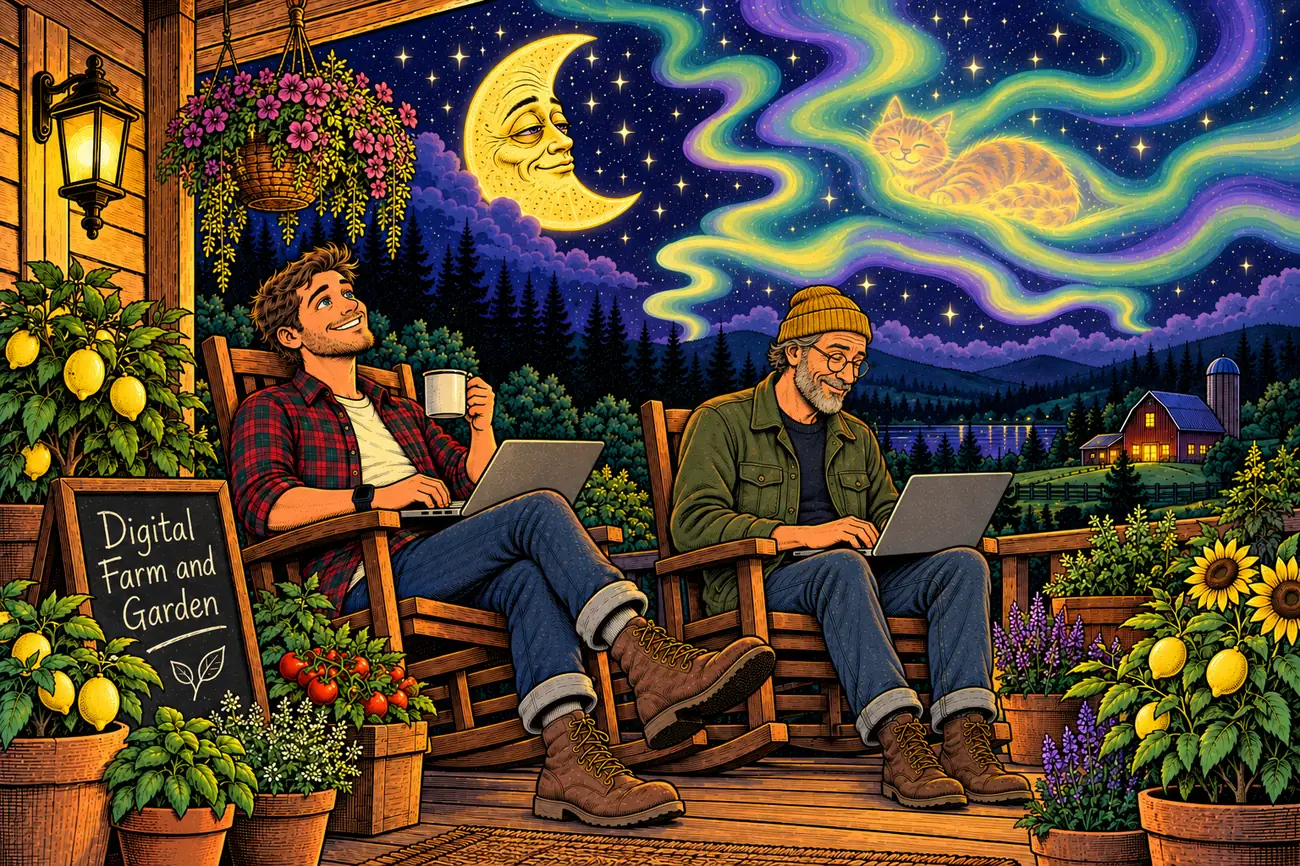
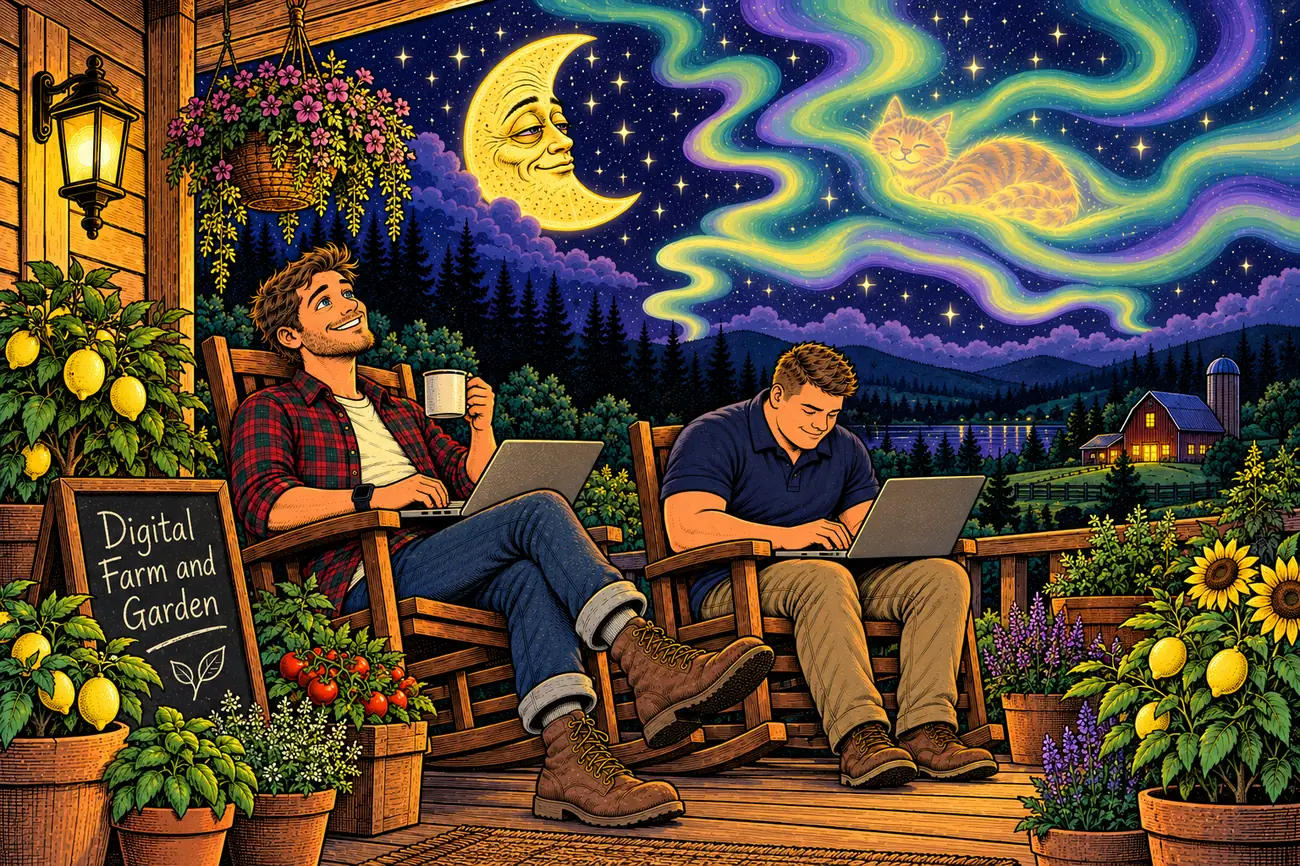
Porch art: Kyle's pick (Rylan version)
Claude-Session: https://claude.ai/code/session_01Ac747erk9CeapfRKQB2zBU

diff --git a/index.html b/index.html
@@ -104,7 +104,7 @@
 <figure class="porch">
   <picture>
     <source type="image/webp" srcset="/assets/porch-800.webp 800w, /assets/porch-1300.webp 1300w" sizes="(max-width:1300px) 100vw, 1300px">
-    <img src="/assets/porch.jpg" width="1300" height="867" alt="Hand-inked night scene: two friends in rocking chairs code on laptops on a farmhouse porch, one sipping coffee and smiling up at a crescent moon, the other in a beanie and glasses, with lemon trees, sunflowers, tomatoes, a chalkboard that reads Digital Farm and Garden, and an aurora where a sleepy orange cat curls up.">
+    <img src="/assets/porch.jpg" width="1300" height="867" alt="Hand-inked night scene: two friends in rocking chairs code on laptops on a farmhouse porch, one sipping coffee and smiling up at a crescent moon, the other typing in a navy polo, with lemon trees, sunflowers, tomatoes, a chalkboard that reads Digital Farm and Garden, and an aurora where a sleepy orange cat curls up.">
   </picture>
   <figcaption>Up in the aurora is Alex, our studio cat. He keeps watch over every build.</figcaption>
 </figure>
